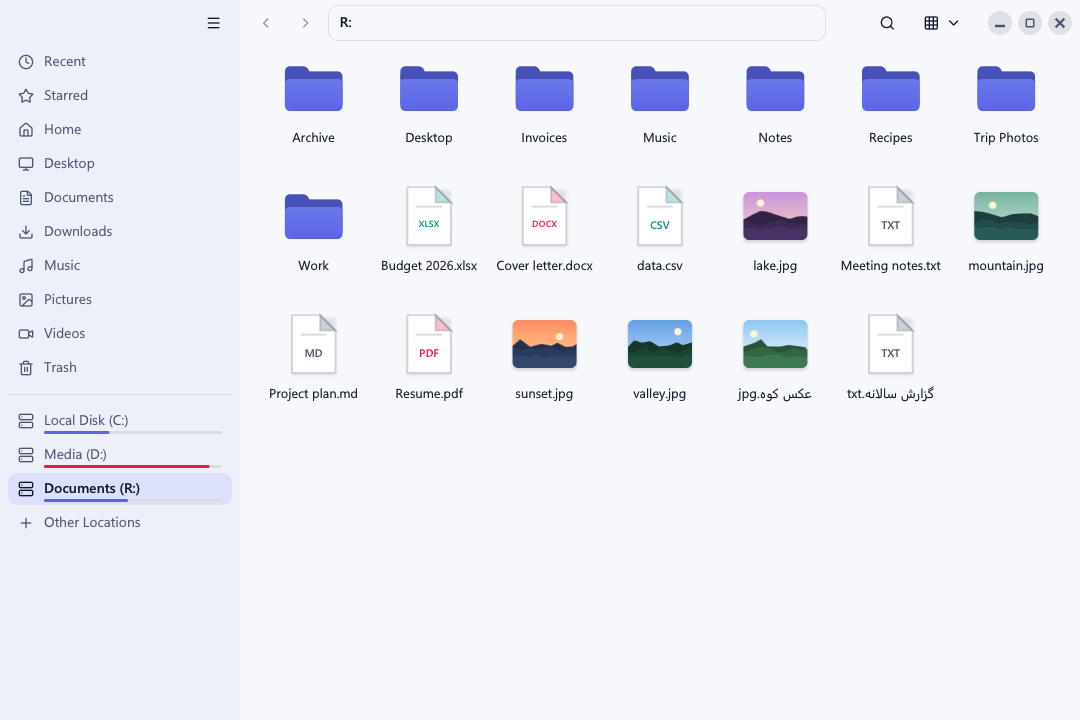
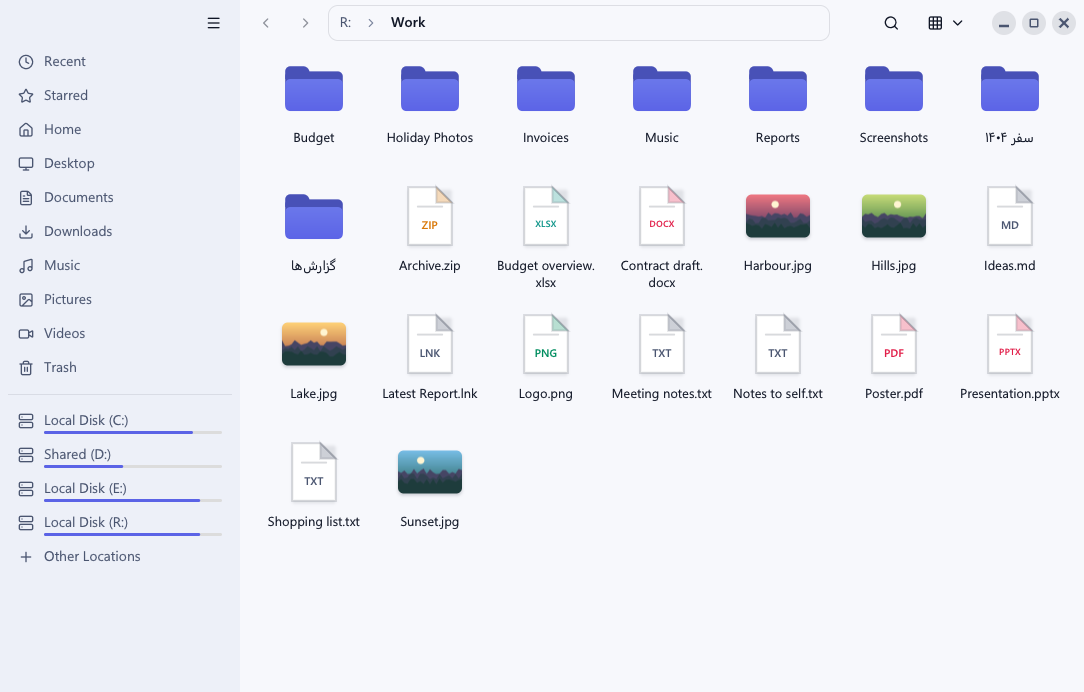
README media: dark theme pictures and four real-time clips, light pictures at the end

diff --git a/README.md b/README.md
@@ -3,29 +3,49 @@
 A small file manager for Windows, written in C and modelled on GNOME Files (Nautilus).
 It is a single executable of under 800 KB.
 
-![The main window in grid view: a sidebar with the drives and their fill bars, and a folder of files](docs/media/grid-light.png)
+![The main window in the dark theme, in grid view: a sidebar with the drives and their fill bars, and a folder of files](docs/media/grid-dark.png)
 
 ## What it looks like
 
-![Selecting files by dragging a box over them](docs/media/select-box.gif)
+![Opening the view menu and dragging the zoom slider: the grid grows to large icons, shrinks to the list with the size of each folder, and grows back to a medium grid](docs/media/zoom.webp)
 
-Dragging a box over files selects them, and the count appears at the bottom.
+The view menu's zoom slider moves from large icons to the list view and back in one continuous drag.
 
-![The list view with the size of every folder](docs/media/list-sizes.png)
+![Dragging the window's corner: the grid reflows while the window narrows, the sidebar slides away, and it slides back when the window grows again](docs/media/resize.webp)
+
+Making the window narrower reflows the grid as you drag; the sidebar slides away when there is no room for it and back when there is.
+
+![Dragging a box over three files, cutting them, opening a folder, pasting, and going back](docs/media/everyday.webp)
+
+Everyday work: a box selects three files, Ctrl+X and Ctrl+V move them into another folder, and Back returns.
+
+![Typing "report" in the search field, then choosing Open File Location on a shortcut in the results](docs/media/search.webp)
+
+Search looks in the folder and everything below it. Open File Location on a shortcut jumps to the file it points to.
+
+![The list view with the size of every folder](docs/media/list-sizes-dark.png)
 
 The list view shows the size of each folder, measured in the background.
 
-![The right-click menu of a shortcut, with Open File Location](docs/media/shortcut-menu.png)
+![The right-click menu of a shortcut, with Open File Location](docs/media/shortcut-menu-dark.png)
 
 A right-click menu on a shortcut; Open File Location jumps to the file it points to.
 
-![The sidebar's Remove from Sidebar menu, with two folders added to the sidebar](docs/media/sidebar-menu.png)
+![The sidebar's Remove from Sidebar menu, with two folders added to the sidebar](docs/media/sidebar-menu-dark.png)
 
 Any folder can be added to the sidebar and removed from it again with a right click.
 
-![The dark theme showing a folder of pictures with thumbnails](docs/media/dark-photos.png)
+![A folder of pictures with thumbnails](docs/media/photos-dark.png)
 
-The dark theme, with picture thumbnails. The window follows the Windows light or dark setting.
+Picture thumbnails.
+
+**Light theme.** The window follows the Windows light or dark setting. The same views in the light theme:
+
+![The main window in the light theme, in grid view](docs/media/grid-light.png)
+
+![The list view in the light theme, with the size of every folder](docs/media/list-sizes-light.png)
+
+![A folder of pictures with thumbnails in the light theme](docs/media/photos-light.png)
 
 ## What it does
 
